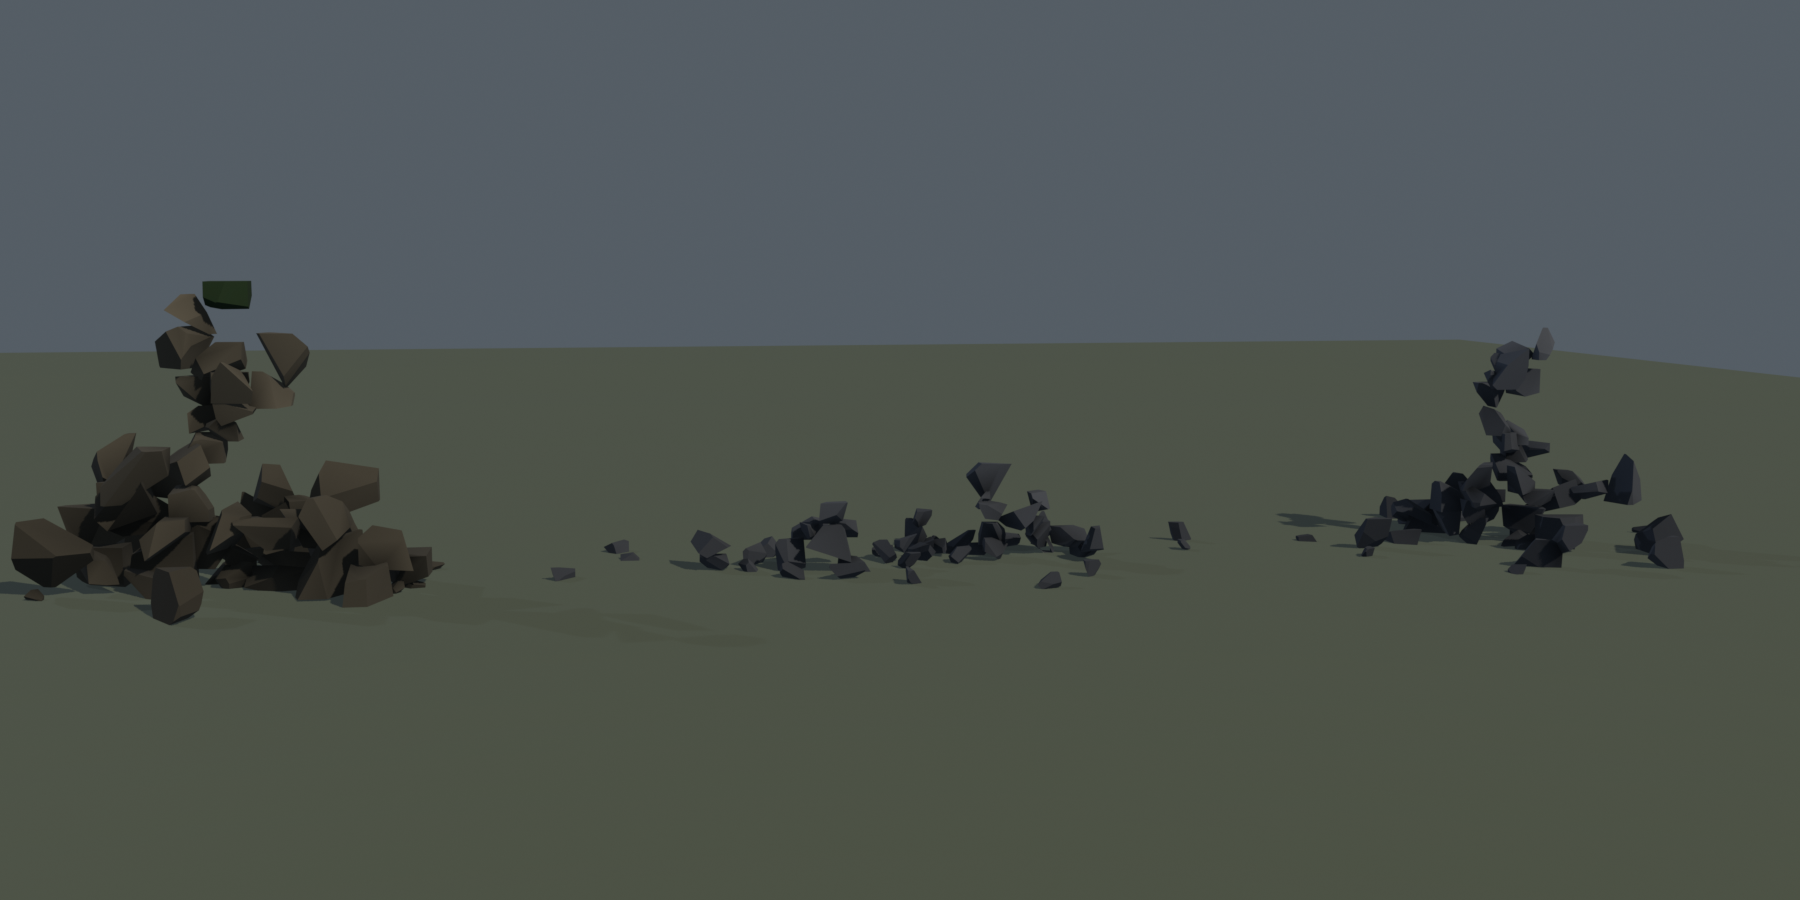
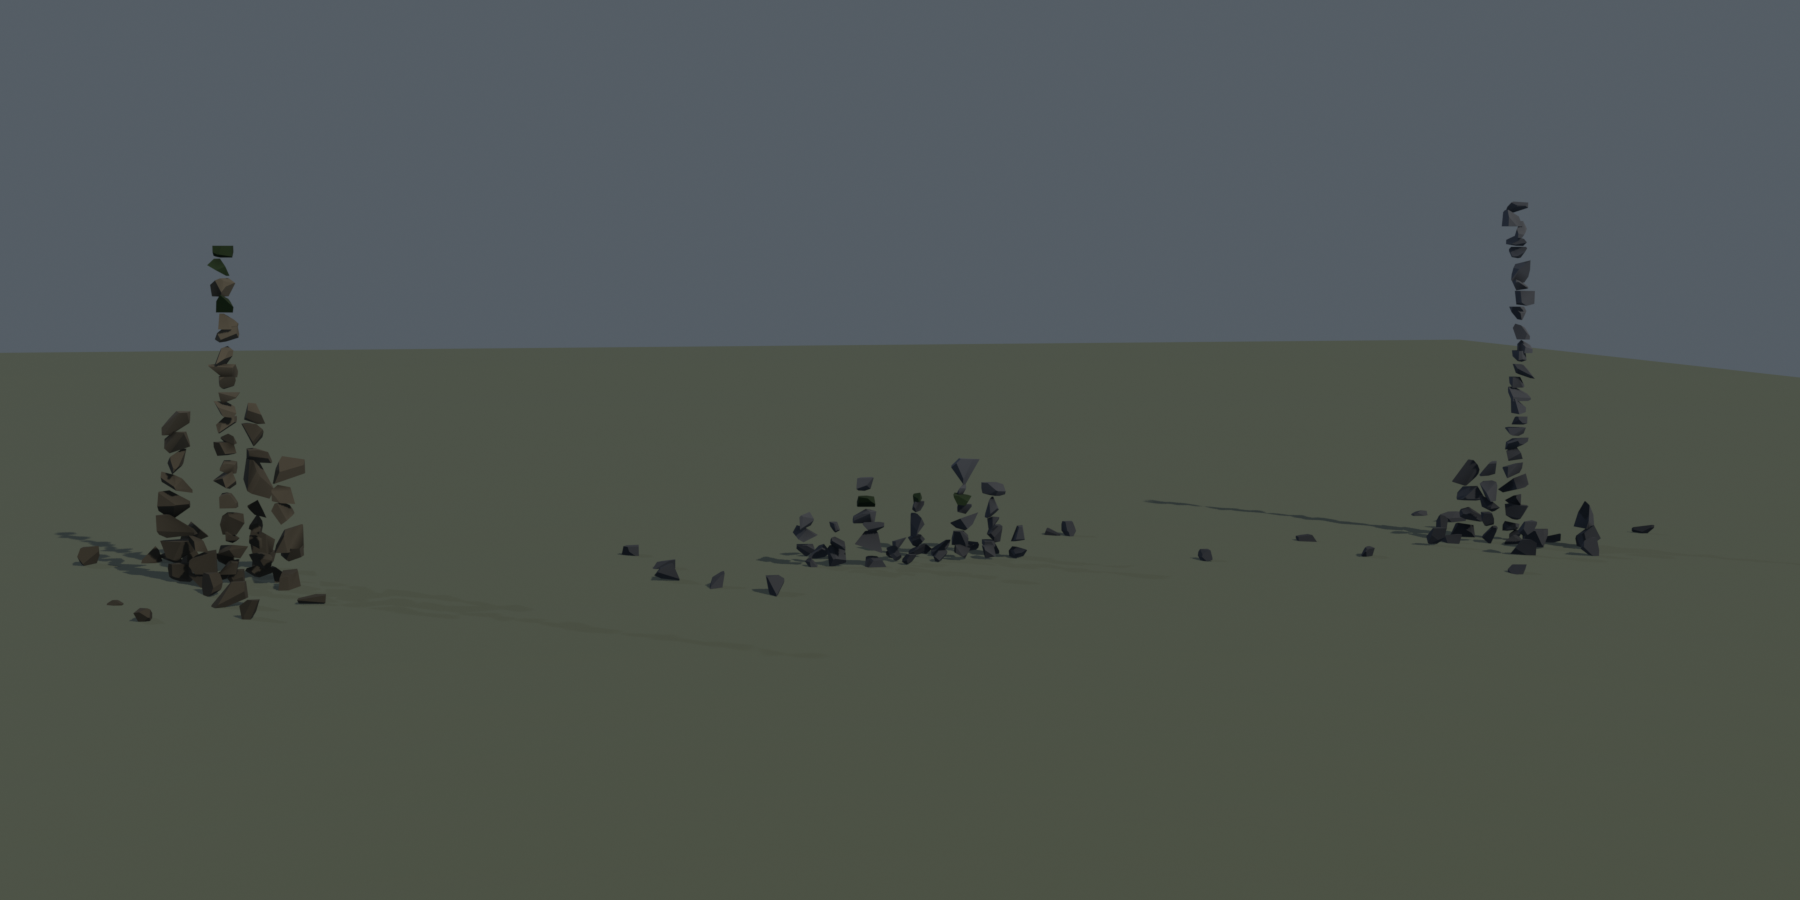
feat(biome_facet): measure support instead of asserting it - and it fails
Joan: 'tu se apoyan no es correcto, porque solo se une la malla... la fisica de
la piedra no hace que al tocar un vertice se vuelva algo ultra resistente unido'.
Correct on both counts, and two things were tangled together in the settle:

  CONTACT COUNT decides whether a stone stands. Dropping to the first contact and
  stopping leaves it balanced on ONE point. A stone is stable with three or more
  contacts and its centre of mass inside the polygon they form.

  BURIAL DEPTH is separate and real - stones do settle into scree - but the 40%
  interpenetration ADJACENCY was producing is welding, not settling. Real settled
  stone buries 10-25%. settle_bite now defaults to 0.86, about 14%.

The build now REPORTS how many stones stand on 1-2 contacts, and the answer is
bad: 34/48, 46/56, 26/42, 34/46, 11/22. Sixty to eighty percent of every
formation is under-supported. The previous claim that stones rested on each other
was an assertion; this is the measurement, and it refutes it.

The slide-toward-contacts retry in here CANNOT fix that, by construction: sliding
a stone toward the centroid of the one thing it touches puts it directly on top
of that same thing, still one contact. Kept only because the metric is worth
having.

The real fix is a different algorithm: seed each stone into a POCKET formed by
three already-placed stones, rather than dropping it at a random plan position.
That is packing, not tuning, and is deliberately not attempted here.
[…]

diff --git a/recetas/biome_facet.py b/recetas/biome_facet.py
@@ -483,21 +483,55 @@ def add_stone_aggregate(bm, vcol, center, spec, rng):
                            x=math.cos(ang) * rad * elongate,
                            y=math.sin(ang) * rad, hr=hr, hz=hz, z=0.0))
 
-    # Contact now uses the stone's OWN measured half-extents, so ADJACENCY finally
-    # means what it says: centres at 0.60 x the sum of real extents is a 40%
-    # interpenetration. Stones lock together instead of hovering near each other,
-    # which is what makes the pile hold AND what gives the interior-face cull
-    # something to remove.
+    # ---- settle with a REAL support condition -------------------------------
+    # Joan, 2026-08-08: *"tu 'se apoyan' no es correcto, porque solo se une la
+    # malla... la fisica de la piedra no hace que al tocar un vertice se vuelva
+    # algo ultra resistente unido, eso es irreal"*. He is right twice over, and
+    # the two halves were tangled together here:
+    #
+    #   HOW MANY CONTACTS decides whether a stone stands. Dropping until the
+    #   first contact and stopping leaves it balanced on ONE point, which falls
+    #   over. A stone is stable when it has at least three contacts and its
+    #   centre of mass projects INSIDE the polygon they form.
+    #
+    #   HOW DEEP IT SINKS is a separate, real thing: stones do settle into loose
+    #   scree and soil. But a settled stone buries 10-25% of itself, not the 40%
+    #   that ADJACENCY was producing here. That much is not settling, it is
+    #   welding, and it is what made the mesh read as one fused blob.
+    #
+    # So the bite is shallower now, and a stone that lands unsupported is slid
+    # toward the centroid of what it touches until it is.
+    bite = spec.get("settle_bite", 0.86)        # 0.86 => ~14% burial at contact
     for i, b in enumerate(blanks):
-        z = b["hz"] * 0.55                      # on the ground, part-buried
-        for p in blanks[:i]:
-            reach_h = ADJACENCY * (b["hr"] + p["hr"])
-            reach_v = ADJACENCY * (b["hz"] + p["hz"])
-            d = math.hypot(b["x"] - p["x"], b["y"] - p["y"])
-            if d < reach_h:
-                drop = reach_v * math.sqrt(max(0.0, 1.0 - (d / reach_h) ** 2))
-                z = max(z, p["z"] + drop)
+        for _attempt in range(4):
+            z = b["hz"] * 0.72                  # resting on the ground
+            contacts = []
+            for p in blanks[:i]:
+                reach_h = bite * (b["hr"] + p["hr"])
+                reach_v = bite * (b["hz"] + p["hz"])
+                d = math.hypot(b["x"] - p["x"], b["y"] - p["y"])
+                if d < reach_h:
+                    drop = reach_v * math.sqrt(max(0.0, 1.0 - (d / reach_h) ** 2))
+                    cz = p["z"] + drop
+                    contacts.append((cz, p))
+                    z = max(z, cz)
+            if not contacts:
+                break                            # on the ground: fully supported
+            # Only the stones it actually TOUCHES hold it up; anything lower is
+            # not in contact and carries no load.
+            tol = b["hz"] * 0.25
+            bearing = [p for cz, p in contacts if cz >= z - tol]
+            if len(bearing) >= 3:
+                break
+            # Under-supported. Slide toward the centroid of what it does touch --
+            # which is what a stone rolling into a gap actually does -- and try
+            # to settle again.
+            cx = sum(p["x"] for p in bearing) / len(bearing)
+            cy = sum(p["y"] for p in bearing) / len(bearing)
+            b["x"] += (cx - b["x"]) * 0.45
+            b["y"] += (cy - b["y"]) * 0.45
         b["z"] = z
+        b["bearing"] = len(bearing) if contacts else 0
 
     # Height is an OUTCOME of the packing, so the formation is rescaled to honour
     # the spec — but UNIFORMLY, positions and stone geometry together. Scaling Z
@@ -524,11 +558,17 @@ def add_stone_aggregate(bm, vcol, center, spec, rng):
         ))
         emit_stone(coords, faces, pos, 0.0, False)
 
-    stats = (len(bm.faces), len(bm.faces))
+    # A stone with 1 or 2 contacts is standing on a knife edge. 0 means it is on
+    # the ground, which is fine. Reporting this is the point: "se apoyan" was an
+    # assertion, and an assertion without a number is what got corrected.
+    wobbly = sum(1 for b in blanks if b.get("bearing", 0) in (1, 2))
+
+    faces_before = len(bm.faces)
+    faces_after = faces_before
     if spec.get("cull_interior", True):
-        stats = cull_interior_faces(bm, solids)
+        faces_before, faces_after = cull_interior_faces(bm, solids)
         made_faces = [f for f in made_faces if f.is_valid]
-    return made_faces, stats
+    return made_faces, (faces_before, faces_after, wobbly, len(blanks))
 
 
 def flat_shade(faces):

diff --git a/recetas/_test_biome_facet.py b/recetas/_test_biome_facet.py
@@ -105,7 +105,8 @@ for i, spec in enumerate(VARIANTS):
     tris = sum(len(p.vertices) - 2 for p in obj.data.polygons)
     print(f"[facet] {spec['key']:16s} verts={len(obj.data.vertices):4d} tris={tris:4d} "
           f"height={obj.dimensions.z:.2f}m width={obj.dimensions.x:.2f}m "
-          f"ao={ao_mean:.2f} faces {cull[0]}->{cull[1]} (-{100.0*(cull[0]-cull[1])/max(cull[0],1):.0f}%)")
+          f"ao={ao_mean:.2f} cull -{100.0*(cull[0]-cull[1])/max(cull[0],1):.0f}% "
+          f"mal-apoyadas={cull[2]}/{cull[3]}")
 
 mat = biome_vcol.vcol_material("mat_rock_facet", roughness=0.85, specular=0.15)
 for obj in objs:
